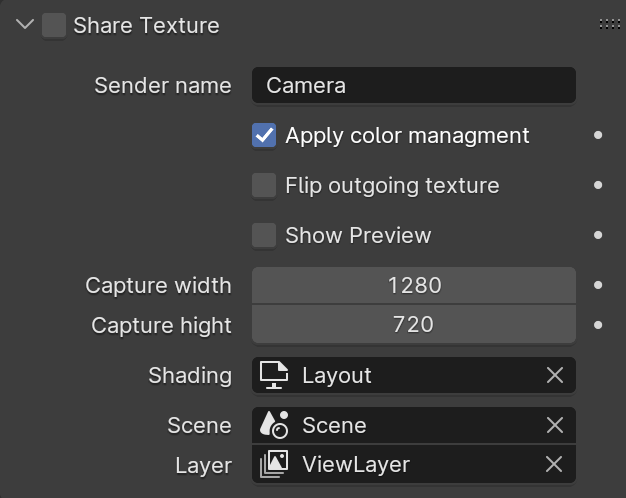
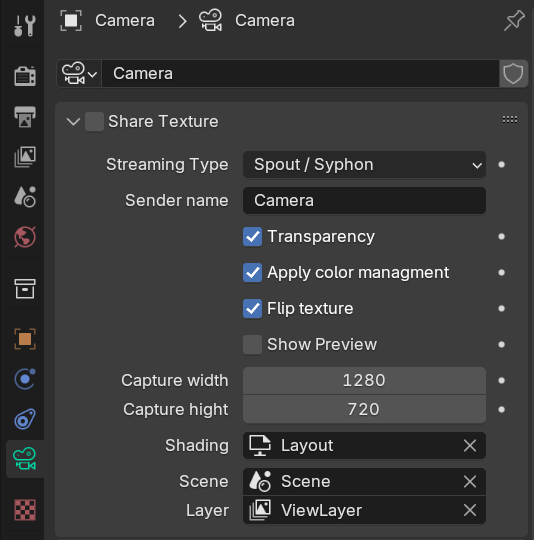
code cleanup added background transparency rearranged receiver GUI

diff --git a/fbs/spout/SpoutClient.py b/fbs/spout/SpoutClient.py
@@ -8,6 +8,8 @@ from itertools import repeat
 import bpy
 import logging
 
+import time
+
 from ..FrameBufferSharingClient import FrameBufferSharingClient
 
 
@@ -29,28 +31,29 @@ class SpoutClient(FrameBufferSharingClient):
     def setup(self, sources):
         print("SpoutClient setup sources", sources)
         self.receiver = SpoutGL.SpoutReceiver()
+        self.receiver.setReceiverName(self.sender_name)
         self.byte_buffer = None
         self.float_buffer = None
 
     def has_new_frame(self):
-        # self.receiver.isUpdated()
-        return True
+        return self.receiver.isFrameNew()
 
     def new_frame_image(self):
-        # self.receiver.isUpdated()
+        # self.receiver.isFrameNew()
         return True
 
     def apply_frame_to_image(self, target_image: bpy.types.Image):
         # with SpoutGL.SpoutReceiver() as receiver:
         # self.receiver = receiver
         receiver = self.receiver
-        receiver.setReceiverName(self.sender_name)
 
         sender_info = receiver.getSenderInfo(self.sender_name)
         width, height = sender_info.width, sender_info.height
+
         if (
-            target_image.generated_height != height
-            or target_image.generated_width != width
+            target_image.size[1] != height or
+            target_image.size[0] != width or
+            self.byte_buffer == None
         ):
             # Rescale blender image
             target_image.scale(width, height)
@@ -58,55 +61,55 @@ class SpoutClient(FrameBufferSharingClient):
             self.float_buffer = array.array("f", repeat(0, width * height * 4))
             self.byte_buffer = make_empty_buffer(width, height, GL_RGBA)
 
-        done = False
-        while not done:
-            result = receiver.receiveImage(
-                self.byte_buffer.getbuffer() if self.byte_buffer else None,
-                GL_RGBA,
-                False,
-                0,
-            )
-            if result:
-                if receiver.isUpdated():
-                    # incoming_width = receiver.getSenderWidth()
-                    # incoming_height = receiver.getSenderHeight()
-                    # buffer = make_empty_buffer(incoming_width, incoming_height, GL_RGBA)
-                    # # additions
-                    # self.float_buffer = array.array(
-                    #     "f", repeat(0, incoming_width * incoming_height * 4)
-                    # )
-                    # target_image.scale(incoming_width, incoming_height)
-                    continue
-                # received_pixels = buffer.getvalue()
-                # Not sure why first frame is empty
-                if SpoutGL.helpers.isBufferEmpty(self.byte_buffer.getbuffer()):
-                    continue
-                done = True
+        try:
+            done = False
+            while not done:
+                result = receiver.receiveImage(
+                    self.byte_buffer.getbuffer() if self.byte_buffer else None,
+                    GL_RGBA,
+                    False,
+                    0,
+                )
+                if result:
+                    if receiver.isUpdated():
+                        # incoming_width = receiver.getSenderWidth()
+                        # incoming_height = receiver.getSenderHeight()
+                        # buffer = make_empty_buffer(incoming_width, incoming_height, GL_RGBA)
+                        # # additions
+                        # self.float_buffer = array.array(
+                        #     "f", repeat(0, incoming_width * incoming_height * 4)
+                        # )
+                        # target_image.scale(incoming_width, incoming_height)
+                        continue
+                    # received_pixels = buffer.getvalue()
+                    # Not sure why first frame is empty
+                    if SpoutGL.helpers.isBufferEmpty(self.byte_buffer.getbuffer()):
+                        continue
+                    done = True
 
-        # print("trying to get bytes, look for Got Bytes message just below",
-        #     "isBufferEmpty",
-        #     SpoutGL.helpers.isBufferEmpty(buffer.getbuffer()),
-        # )
-        # if (
-        #     buffer and result and not SpoutGL.helpers.isBufferEmpty(buffer)
-        # ):
-        #     print("Got bytes", bytes(buffer[0:64]), "...")
+            # print("trying to get bytes, look for Got Bytes message just below",
+            #     "isBufferEmpty",
+            #     SpoutGL.helpers.isBufferEmpty(buffer.getbuffer()),
+            # )
+            # if (
+            #     buffer and result and not SpoutGL.helpers.isBufferEmpty(buffer)
+            # ):
+            #     print("Got bytes", bytes(buffer[0:64]), "...")
 
-        # Copy float buffer to image
-        SpoutGL.helpers.copyToFloat32(self.byte_buffer.getbuffer(), self.float_buffer)
-        target_image.pixels.foreach_set(self.float_buffer)
-        # Per https://blenderartists.org/t/faster-image-pixel-data-access/1161411/6 faster than image.pixels =
-        # when using a buffer
-        # other example: target_image.pixels = (self.video_frame.data.flatten() / 255.0).astype(float)
-        #
-        # Make sure image gets marked dirty for rendering
-        # target_image.update()
-        # target_image.update_tag()
+            # Copy float buffer to image
+            SpoutGL.helpers.copyToFloat32(self.byte_buffer.getbuffer(), self.float_buffer)
+            target_image.pixels.foreach_set(self.float_buffer)
 
-    # Wait until the next frame is ready
-    # Wait time is in milliseconds; note that 0 will return immediately
-    # receiver.waitFrameSync(self.sender_name, 10000)
-    # print("sync received")
+            # Per https://blenderartists.org/t/faster-image-pixel-data-access/1161411/6 faster than image.pixels =
+            # when using a buffer
+            # other example: target_image.pixels = (self.video_frame.data.flatten() / 255.0).astype(float)
+            #
+            # Make sure image gets marked dirty for rendering
+            # target_image.update()
+            # target_image.update_tag()
+
+        except BufferError:
+            pass
 
     def can_memory_buffer(self):
         return False

diff --git a/ui.py b/ui.py
@@ -52,12 +52,15 @@ class TEXS_PT_camera_texshare( CameraButtonsPanel, Panel ):
 
         row = layout.row(align=True)
         row.prop(ob.data, "name", text="Sender name")
-        
+
+        row = layout.row(align=True)
+        row.prop(settings, "backgroundTransparent", text="Transparency")
+
         row = layout.row(align=True)
         row.prop(settings, "applyColorManagmentSettings", text="Apply color managment")
 
         row = layout.row(align=True)
-        row.prop(settings, "isflipped", text="Flip outgoing texture")
+        row.prop(settings, "isflipped", text="Flip texture")
 
         row = layout.row(align=True)
         row.prop(settings, "preview", text="Show Preview")
@@ -92,7 +95,29 @@ class TEXS_PT_Receiving(bpy.types.Panel):
         layout = self.layout
         texture_type = context.scene.TEXS_streaming_type
         
+        generate = layout.column()
+
+        gen_type = generate.row(align=True)
+        gen_type.prop(texture_type, 'streaming_type', text='Type')
+
+        dataSplit = generate.split(factor = 0.7)
+
+        gen_server = dataSplit.column(align = True)
+        gen_server.prop(context.scene, "TEXS_servers", text='')
+
+        gen_refresh = dataSplit.column(align = True)
+        gen_refresh.operator("textureshare.directoryupdate", text='Update').type = texture_type.streaming_type
+
+        selected_server = context.scene.TEXS_servers
+
+        if selected_server != "OFF":
+            gen_create = generate.row(align = True)
+            create =gen_create.operator("textureshare.createitem", icon='PRESET_NEW', text='Create new texture receiver')
+            create.type = texture_type.streaming_type
+            create.server = get_server_name()
+
         col = layout.column()
+
         index = 0
         for item in bpy.context.scene.TEXS_imgs:
             col_box = col.column()
@@ -151,27 +176,6 @@ class TEXS_PT_Receiving(bpy.types.Panel):
                 image_row.active = 0
 
             index = index + 1
-
-        generate = layout.column()
-
-        gen_type = generate.row(align=True)
-        gen_type.prop(texture_type, 'streaming_type', text='Type')
-
-        dataSplit = generate.split(factor = 0.7)
-
-        gen_server = dataSplit.column(align = True)
-        gen_server.prop(context.scene, "TEXS_servers", text='')
-
-        gen_refresh = dataSplit.column(align = True)
-        gen_refresh.operator("textureshare.directoryupdate", text='Update').type = texture_type.streaming_type
-
-        selected_server = context.scene.TEXS_servers
-
-        if selected_server != "OFF":
-            gen_create = generate.row(align = True)
-            create =gen_create.operator("textureshare.createitem", icon='PRESET_NEW', text='Create new texture receiver')
-            create.type = texture_type.streaming_type
-            create.server = get_server_name()
 
 
 classes = (

diff --git a/keys.py b/keys.py
@@ -98,7 +98,12 @@ class TEXS_PG_camera_texshare_settings(bpy.types.PropertyGroup):
     isflipped : bpy.props.BoolProperty(
         name = "isflipped",
         default = 0,
-        description = "Inidicates if the texture is flipped when sharing is active"
+        description = "Flippes the outgoing texture when sharing is active"
+    )
+    backgroundTransparent : bpy.props.BoolProperty(
+        name = "backgroundTransparent",
+        default = 1,
+        description = "Renders the background transparent"
     )
     applyColorManagmentSettings : bpy.props.BoolProperty(
         name = "applyColorManagmentSettings",

diff --git a/operators.py b/operators.py
@@ -111,7 +111,8 @@ def texshare_capture(self, context, camera, object, space, region, scene, layer,
         context.region,
         view_matrix,
         projection_matrix,
-        do_color_management=applyCM)
+        do_color_management=applyCM,
+        draw_background=not guivars.backgroundTransparent)
 
     if showPreview:
         gpu.state.depth_test_set("NONE")

diff --git a/fbs/FrameBufferSharingClient.py b/fbs/FrameBufferSharingClient.py
@@ -58,6 +58,7 @@ class FrameBufferSharingClient(ABC):
 	def timer_call(self, guivars):
 		if self.has_new_frame() == True:
 			self.apply_frame_to_image(guivars.texs_image)
+			guivars.texs_image.update()
 			guivars.texs_image.update_tag()
 		
 		return guivars.refresh_rate / 1000 if guivars.enable == 1 else None

diff --git a/README.md b/README.md
@@ -1,4 +1,4 @@
-# Texture sharing addon V6.1.2 for Blender 3.x upwards
+# Texture sharing addon V7.0.0 for Blender 3.x upwards
 
 Blender addon that allows to share textures via [Spout](http://spout.zeal.co/) or [Syphon](https://syphon.github.io/) or [NDI](https://ndi.video) from and to blender.
 
@@ -21,7 +21,7 @@ This works for current Windows (Spout & NDI), Linux (NDI) and OSX (Syphon & NDI)
 - [x] Windows Spout Sender Discovery (only supported from spout version 0.1.0 onward)
 - [x] Windows Spout Receiver (only supported from spout version 0.1.0 onward)
 
-⚠ If you have already used this addon before - please reinstall the spout python package to get to version 0.1.0 ⚠
+⚠ If you have already used this addon before - please reinstall the spout python package to get to version 0.1.0
 
 ### Linux, Windows, OSX
 
@@ -43,7 +43,7 @@ The wheels for Windows and OSX can be found [here](https://github.com/maybites/T
 
 Please make sure you have the most current Blender installed.
 
-1. [Download](https://github.com/maybites/TextureSharing/releases) the addon from the **releases**
+1. Download the [latest master as a zip](https://github.com/maybites/TextureSharing/archive/refs/heads/master.zip)
 
 2. Open Blender > Menu >  Preferences > Add-ons > search for and enable the 'TextureSharing' add-on  
 
@@ -55,7 +55,9 @@ Please make sure you have the most current Blender installed.
 
 6. Once the library is installed, disable and reenable the addon.
 
-7. Save and close preferences.
+7. If the addon doesn't show a successfully loaded python-library, then try restarting blender.
+
+8. Save and close preferences.
 
 ## Usage
 
@@ -70,8 +72,9 @@ The plugin adds a panel to the **Camera** properties called 'Share texture'. The
 ![Panel](./documentation/panel.png)
 
 * The streaming type (NDI, Spout or Syphon)
-* The sender (also known as syphon-server) name is default set to the camera name.
+* The sender (also known as server) name is default set to the camera name.
 * use color management (recommended).
+* render transparent background.
 * vertical flip of the output texture.
 * show preview inside viewport.
 * capture/streaming resolution.
@@ -86,7 +89,7 @@ The plugin adds a panel to the UV-Editor Tools 'Share texture'.
 
 ![Panel](./documentation/receivePanel.png)
 
-* create a new image and name it accordingly (in the above case 'Syphon')
+* create a new image and name it accordingly (in the above case 'Spout')
 * press update to get all available shared textures.
 * select a sender/server
 * press 'create'
